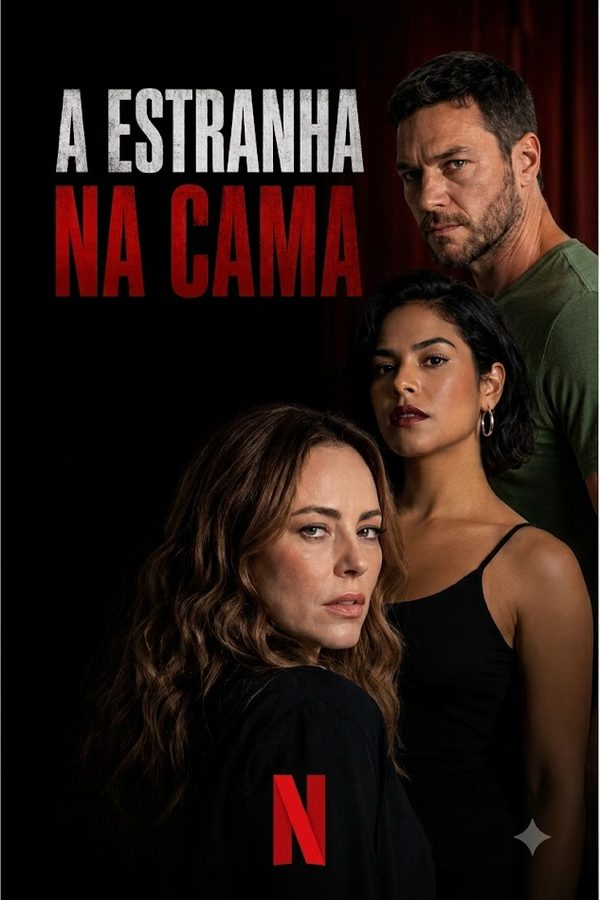
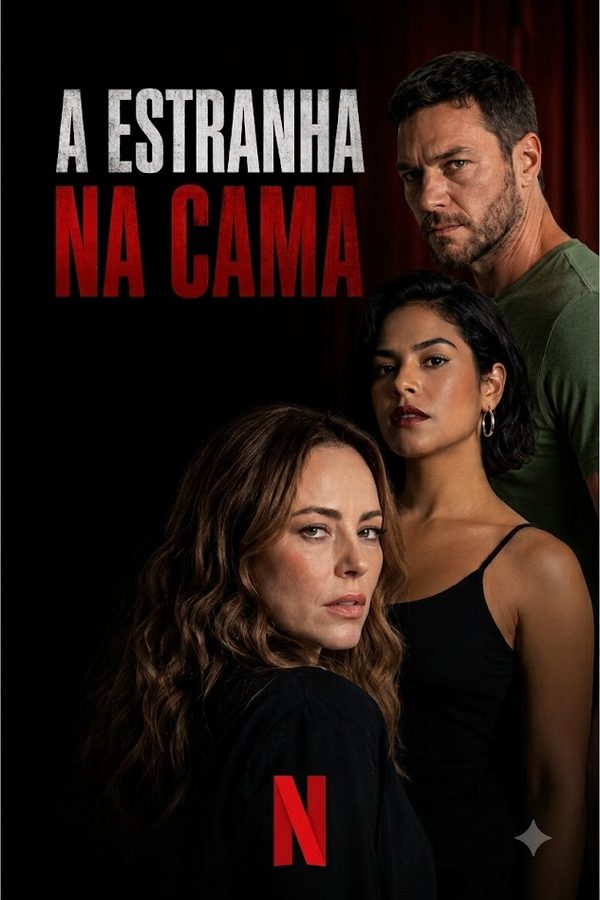
Corrige moldura da Estranha na Cama, acelera o glitch e liga a Maracutaia.fm à sala
Três pedidos:

1. A Estranha na Cama tinha uma faixa branca de ~24px sobrevivendo no lado
   direito do pôster processado. Causa raiz: o original vem com cantos
   arredondados, então o script antigo (que só apara moldura quando os
   quatro cantos são idênticos) falhava a checagem e devolvia a imagem
   intocada; o recorte 2:3 seguinte cortava por coincidência a moldura de
   cima/baixo/esquerda, mas sobrava um resto à direita. Reprocessado com
   detecção de borda por lado, independente por topo/base/esquerda/direita,
   sem exigir cantos iguais: achou a moldura real de 27px nos quatro lados
   do original (687x1024) e cortou os quatro. Verificado: zero pixel claro
   em qualquer borda do resultado, 600x900 como os outros.

2. Glitch do nome (corte de fita) de 3,5s para 1,5s de ciclo, mesmos valores
   de deslocamento e cor, só o tempo mudou. Confirmado via Web Animations
   API: duracao 1500ms nas duas camadas.

3. Painel da Maracutaia.fm ganha pôster e entra na sala de projeção. O
   arquivo maracutaia.png na pasta de origem não é pôster de produção, é um
   mockup de página inteira (16:9, seis fotos de outros artistas, não do
   Régis); em vez de espremer isso em 2:3, o pôster usado é só a marca
   (símbolo preto sobre fundo violeta) recortada do mockup, sem rosto de
   ninguém. Fundo do símbolo bate exato com --accent do site (#a48bff).
   Sala abre com índice das 9 faixas reais da playlist, extraídas e
[…]

diff --git a/index.html b/index.html
@@ -180,6 +180,9 @@
           <div class="panel" id="p-mara"><div><div class="panel-inner">
             <span class="tagline">Cena eletrônica underground carioca</span>
             <p>Curadoria musical e visual dos sets audiovisuais, com seleção de artistas da cena eletrônica independente e definição da linha estética de cada sessão. Edição e finalização dos sets para o <a class="plink" href="https://www.youtube.com/playlist?list=PLeN4eLs3ScfDhsppcAUj3U6U7azva0Vye" target="_blank" rel="noopener">YouTube ↗</a> e criação de peças promocionais para Instagram, sustentando consistência de identidade entre os episódios e o alcance da marca.</p>
+            <div class="sheet">
+            <figure><a href="https://www.youtube.com/playlist?list=PLeN4eLs3ScfDhsppcAUj3U6U7azva0Vye" target="_blank" rel="noopener" data-embed="yt-list" data-id="PLeN4eLs3ScfDhsppcAUj3U6U7azva0Vye"><img src="assets/posters/maracutaia.jpg" alt="Identidade visual da Maracutaia.fm" loading="lazy" decoding="async"></a><figcaption>Maracutaia.fm</figcaption></figure>
+            </div>
           </div></div></div>
         </li>
 
@@ -486,6 +489,44 @@
     {
       "id": "Q7eph1JPv7M",
       "t": "Batman, Superman e Mulher-Maravilha censurados | Ep. 4"
+    }
+  ],
+  "PLeN4eLs3ScfDhsppcAUj3U6U7azva0Vye": [
+    {
+      "id": "QVwDrMQf7s4",
+      "t": "Maracutaia.fm: Vidadura de Verão - AZO"
+    },
+    {
+      "id": "rfs6wtfDgHk",
+      "t": "Maracutaia.fm convida INVITT @casa33rio - Impulso 003"
+    },
+    {
+      "id": "Dzkj0ccYLmU",
+      "t": "Maracutaia.fm: Vidadura de Verão - Man From Rio"
+    },
+    {
+      "id": "uRgnawN6uzc",
+      "t": "Maracutaia.fm: Open Signal - Leo Janeiro"
+    },
+    {
+      "id": "fNN-2GiPE0M",
+      "t": "Drama EFX Openhouse Maracutaia.fm @casa33rio"
+    },
+    {
+      "id": "u0Lxj6oraJk",
+      "t": "Mateus tuK @ Maracutaia Profile 002 | @casa33rio Open House"
+    },
+    {
+      "id": "Et_zgDgLtmE",
+      "t": "Maracutaia.fm: Open Signal - Icehead"
+    },
+    {
+      "id": "HtTxZIt9Y50",
+      "t": "Impulso 001: Severinno - Maracutaia.fm"
+    },
+    {
+      "id": "cNwymliP-zA",
+      "t": "Miguel Arcanjo - Maracutaia.fm Openhouse @casa33rio"
     }
   ]
 }

diff --git a/en/index.html b/en/index.html
@@ -180,6 +180,9 @@
           <div class="panel" id="p-mara"><div><div class="panel-inner">
             <span class="tagline">Underground electronic scene of Rio</span>
             <p>Musical and visual curation of the audiovisual sets, selecting artists from the independent electronic scene and defining the aesthetic line of each session. Editing and finishing of the sets for <a class="plink" href="https://www.youtube.com/playlist?list=PLeN4eLs3ScfDhsppcAUj3U6U7azva0Vye" target="_blank" rel="noopener">YouTube ↗</a> and creation of promotional pieces for Instagram, holding a consistent identity across episodes and extending the reach of the brand.</p>
+            <div class="sheet">
+            <figure><a href="https://www.youtube.com/playlist?list=PLeN4eLs3ScfDhsppcAUj3U6U7azva0Vye" target="_blank" rel="noopener" data-embed="yt-list" data-id="PLeN4eLs3ScfDhsppcAUj3U6U7azva0Vye"><img src="../assets/posters/maracutaia.jpg" alt="Maracutaia.fm brand mark" loading="lazy" decoding="async"></a><figcaption>Maracutaia.fm</figcaption></figure>
+            </div>
           </div></div></div>
         </li>
 
@@ -486,6 +489,44 @@
     {
       "id": "Q7eph1JPv7M",
       "t": "Batman, Superman e Mulher-Maravilha censurados | Ep. 4"
+    }
+  ],
+  "PLeN4eLs3ScfDhsppcAUj3U6U7azva0Vye": [
+    {
+      "id": "QVwDrMQf7s4",
+      "t": "Maracutaia.fm: Vidadura de Verão - AZO"
+    },
+    {
+      "id": "rfs6wtfDgHk",
+      "t": "Maracutaia.fm convida INVITT @casa33rio - Impulso 003"
+    },
+    {
+      "id": "Dzkj0ccYLmU",
+      "t": "Maracutaia.fm: Vidadura de Verão - Man From Rio"
+    },
+    {
+      "id": "uRgnawN6uzc",
+      "t": "Maracutaia.fm: Open Signal - Leo Janeiro"
+    },
+    {
+      "id": "fNN-2GiPE0M",
+      "t": "Drama EFX Openhouse Maracutaia.fm @casa33rio"
+    },
+    {
+      "id": "u0Lxj6oraJk",
+      "t": "Mateus tuK @ Maracutaia Profile 002 | @casa33rio Open House"
+    },
+    {
+      "id": "Et_zgDgLtmE",
+      "t": "Maracutaia.fm: Open Signal - Icehead"
+    },
+    {
+      "id": "HtTxZIt9Y50",
+      "t": "Impulso 001: Severinno - Maracutaia.fm"
+    },
+    {
+      "id": "cNwymliP-zA",
+      "t": "Miguel Arcanjo - Maracutaia.fm Openhouse @casa33rio"
     }
   ]
 }

diff --git a/css/site.css b/css/site.css
@@ -140,7 +140,7 @@ dl, dt, dd { margin: 0; }
    (curadoria), como emenda mal alinhada na ilha de edição. As cópias
    nascem de ::before/::after com o texto em data-txt, então não duplicam
    markup nem atrapalham o efeito assinatura (letra a letra) que já mora
-   em .ln/.ch. Ciclo de 3,5s, valores calibrados no navegador: em .08em
+   em .ln/.ch. Ciclo de 1,5s, valores calibrados no navegador: em .08em
    a fatia saía do bloco do nome e virava letra fantasma; .045em mantém
    a leitura. */
 .hero-name .ln { position: relative; }
@@ -150,12 +150,12 @@ dl, dt, dd { margin: 0; }
 }
 .hero-name .ln::before {
   color: var(--roteiro);
-  animation: corte-fita-a 3.5s var(--ease) infinite;
+  animation: corte-fita-a 1.5s var(--ease) infinite;
   clip-path: inset(42% 0 38% 0);
 }
 .hero-name .ln::after {
   color: var(--curadoria);
-  animation: corte-fita-b 3.5s var(--ease) infinite;
+  animation: corte-fita-b 1.5s var(--ease) infinite;
   clip-path: inset(68% 0 12% 0);
 }
 @keyframes corte-fita-a {

diff --git a/assets/posters/README.md b/assets/posters/README.md
@@ -1,8 +1,12 @@
 # Pôsteres das produções
 
-19 pôsteres, todos normalizados em **600×900 (2:3)**, JPG progressivo
-qualidade 82. Total 1,69 MB. Entram no contact sheet dentro de cada painel de
+20 pôsteres, todos normalizados em **600×900 (2:3)**, JPG progressivo
+qualidade 82. Total 1,70 MB. Entram no contact sheet dentro de cada painel de
 trabalho do `index.html` e do `en/index.html`.
+
+Um deles, `maracutaia.jpg`, não é pôster de produção: é a marca da
+Maracutaia.fm, recortada de um mockup de página (16:9) que não segue o
+formato dos outros. Ver a seção própria abaixo.
 
 Originais em `D:\Users\regis\Desktop\Régis\CLAUDE\SITE\POSTER\OK`.
 
@@ -27,15 +31,28 @@ Originais em `D:\Users\regis\Desktop\Régis\CLAUDE\SITE\POSTER\OK`.
 | `serie-302.jpg` | Série 302 | Dafina · Finalização |
 | `serie-502.jpg` | Série 502 | Dafina · Finalização |
 | `era-de-ouro.jpg` | Era de Ouro: O Nascimento dos Super-Heróis | Dafina · Finalização |
+| `maracutaia.jpg` | Maracutaia.fm (marca, não pôster) | Maracutaia.fm |
 
 ## Como foram normalizados
 
 Os originais vinham em proporções de 0,605 a 0,802, e em PNG de até 8,9 MB.
 O tratamento foi feito para deixar tudo igual sem perder rosto nem título:
 
-1. **Moldura aparada.** Alguns arquivos traziam moldura branca sólida (Galera
-   FC e A Estranha na Cama). Detectada pelos quatro cantos e removida, senão
-   viravam bloco claro no fundo preto e quebravam a uniformidade da fileira.
+1. **Moldura aparada.** Alguns arquivos traziam moldura branca sólida. Em
+   Galera FC os quatro cantos batiam e o script antigo (que só apara quando
+   os quatro cantos são idênticos) resolveu sozinho. Em A Estranha na Cama o
+   original vinha com cantos arredondados: a cor de cada canto varia por
+   causa do arredondamento, então a checagem de "4 cantos iguais" falhava e
+   a função devolvia a imagem intocada. Por coincidência, o recorte 2:3
+   seguinte (centralizado, âncora `center`) cortou fora a moldura de
+   topo/base/esquerda no processo normal de enquadrar a proporção, mas
+   sobrou uma faixa clara de ~24px no lado direito, que ficou no ar sem
+   ninguém notar até o pedido de correção. Reprocessada com detecção de
+   borda por lado, independente por topo/base/esquerda/direita, sem exigir
+   cantos iguais: achou a moldura real de 27px nos quatro lados do
+   original (687×1024) e cortou os quatro antes do recorte 2:3. Se outro
+   pôster aparecer com moldura em cantos arredondados, usar esse método,
+   não o antigo baseado em 4 cantos idênticos.
 2. **Recorte para 2:3, sempre centralizado na horizontal.** Onze pôsteres já
    estavam entre 0,667 e 0,680, então o corte é desprezível. Os três mais
    largos (Coração Suburbano 0,727, Desejos S.A. 0,796, O Lado Bom 0,802)
@@ -51,9 +68,34 @@ O tratamento foi feito para deixar tudo igual sem perder rosto nem título:
    arquivo mais pesado da pasta, 199 KB, porque é ilustração cheia de detalhe
    fino, que o JPG não compacta bem; carrega em `lazy` dentro do painel.
 
-Cada uma das 19 foi conferida visualmente numa montagem depois do processo,
-para garantir que rosto e nome da produção continuam legíveis na miniatura.
+Cada uma das 19 fotos de produção foi conferida visualmente numa montagem
+depois do processo, para garantir que rosto e nome da produção continuam
+legíveis na miniatura.
 
-Ao trocar ou acrescentar pôster, refazer o mesmo caminho: aparar moldura,
-recortar para 600×900 escolhendo a âncora que preserva o título, salvar JPG
-qualidade 82 progressivo, e olhar a miniatura antes de publicar.
+Ao trocar ou acrescentar pôster, refazer o mesmo caminho: aparar moldura
+(por lado, não por 4 cantos iguais, se houver canto arredondado), recortar
+para 600×900 escolhendo a âncora que preserva o título, salvar JPG qualidade
+82 progressivo, e olhar a miniatura antes de publicar.
+
+## Maracutaia.fm: marca, não pôster
+
+`maracutaia.jpg` não é uma foto de produção: é o símbolo da Maracutaia.fm
+(o traço preto em forma de meia-lua) recortado de um mockup de página inteira
+(16:9, com título "SETS AUDIOVISUAIS", grade de seis fotos de DJs e botão
+"Ver a playlist completa") que estava na mesma pasta dos pôsteres. Esse
+mockup inteiro não cabe no formato 2:3 do contact sheet sem espremer a
+tipografia a ilegibilidade, e as seis fotos nele são de outros artistas
+(Azo, Caiao, Marta Supernova, Rafael Não Existe e mais dois), não do Régis,
+então não fazia sentido usá-las como "pôster" da entrada dele no portfólio.
+
+O recorte usado é só o quadrado da marca, fundo violeta sólido, sem rosto de
+ninguém. Coincidência feliz: a cor de fundo desse quadrado no mockup
+(`rgb(164, 139, 255)`) é exatamente o `--accent` do site (`#a48bff`). O
+quadrado foi redimensionado para 600px de largura e colado centralizado
+numa tela 600×900 preenchida com a mesma cor, então não há upscale
+forçado nem corte do símbolo.
+
+O pôster está ligado ao mesmo player embutido dos outros: clicar nele abre
+a playlist "Sets Maracutaia.fm" dentro do site, com índice dos 9 episódios
+(ver `## Sala de projeção` no README principal para o porquê de 7 dos 9
+vídeos não tocarem embutidos, e o que fazer se isso mudar).

diff --git a/README.md b/README.md
@@ -208,11 +208,23 @@ pôster estranho, seria um trabalho inteiro quebrado. Para ligar: conferir os
 quatro `.../embed/captioned/` em janela anônima e no celular; se os quatro
 renderizarem o vídeo, trocar para `true`.
 
-**Playlist da Maracutaia.fm não é embutível**: 7 dos 9 vídeos devolvem erro
-150 da IFrame Player API, que é o dono do canal ter desativado a exibição
-fora do YouTube. É configuração do canal, não do site. Se essa opção for
-ligada no YouTube Studio, a mesma sala passa a servir essa playlist sem
-mudança de código, bastando assar as faixas no bloco JSON.
+**Painel da Maracutaia.fm tem pôster e sala, com uma ressalva conhecida.**
+O painel ganhou `assets/posters/maracutaia.jpg` (a marca, não uma foto de
+produção; ver `assets/posters/README.md`) ligado à playlist "Sets
+Maracutaia.fm". A sala monta o índice com as 9 faixas reais da playlist,
+mas **7 das 9 devolvem erro 150 da IFrame Player API**: o dono do canal
+desativou a exibição fora do YouTube para esses vídeos especificamente.
+É configuração do canal (`@casa33rio`), não bug do site.
+
+Decidido subir os 9 mesmo assim, ao contrário do Instagram, porque aqui o
+modo de falha é CONHECIDO e contido, não uma incógnita: o YouTube desenha o
+próprio card "assistir no YouTube" dentro do nosso retângulo preto (feio,
+não quebrado), e "Ver original ↗" continua visível o tempo todo apontando
+para a playlist completa. As duas faixas que hoje tocam embutidas são
+`fNN-2GiPE0M` (Drama EFX Openhouse) e `u0Lxj6oraJk` (Mateus tuK). Se o dono
+do canal liberar embed nas outras 7 no YouTube Studio, elas passam a tocar
+sem eu precisar mudar nada: a permissão é checada pelo YouTube a cada
+carregamento, não fica guardada no site.
 
 ## Pixel da Meta (ligado)
 
